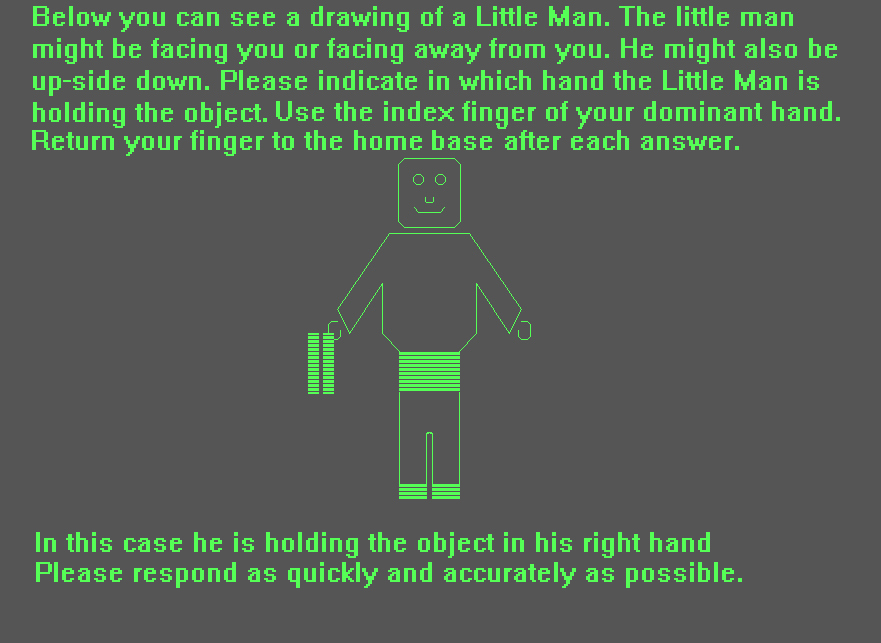
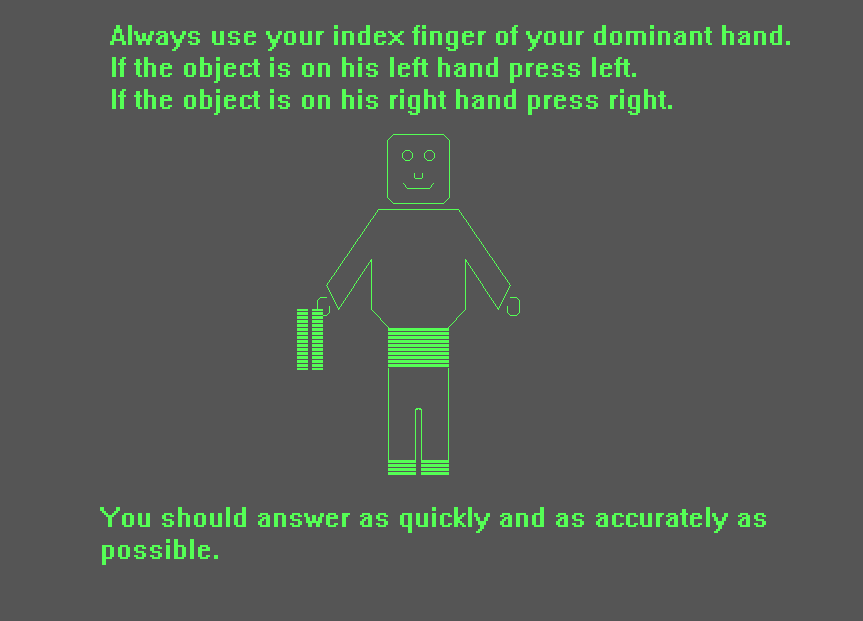
new instructions

diff --git a/task.php b/task.php
@@ -135,7 +135,7 @@ function exportToCsv(filename, rows) {
 		"images/25.png", "images/26.png", "images/27.png", "images/28.png", 
 		"images/29.png", "images/30.png", "images/31.png", "images/32.png", 
 		];
-    jsPsych.preloadImages(stimuli, function(){ startExperiment(); });
+    //jsPsych.preloadImages(stimuli, function(){ startExperiment(); });
     var stimuli_types = ["left","right","left","right","right","left",
     			"right","left","right","right","left","left",
 			"right","left","left","right","right","left",
@@ -484,9 +484,11 @@ function exportToCsv(filename, rows) {
     // Define first instruction block which uses instruction image
     var first_instruction_block = {
 	  type: 'text',
-	  cont_key: 'mouse',
-	  text: '<center><image src="images/instruction_example.png"></center>',
-	  timing_post_trial: 1000,
+          cont_key: 'mouse',
+	  timeline: [{text: '<center><image src="images/instruction_example.png"></center>'},
+		     {text: '<center><image src="images/instruction2.png"></center>'},
+		     {text: '<center><image src="images/instruction3.png"></center>'}],
+	  timing_post_trial: 0,
 	  //adding is_data_element label for welcome and instruction messages
 	  on_finish: function(data){
 	   	 jsPsych.data.addDataToLastTrial({is_data_element: false});

diff --git a/task-keyboard.php b/task-keyboard.php
@@ -475,8 +475,10 @@ function exportToCsv(filename, rows) {
     // Define first instruction block which uses instruction image
     var first_instruction_block = {
 	  type: 'single-stim',
-	  stimulus: 'images/instruction_example.png',
-	  timing_post_trial: 1000,
+	  timeline: [{stimulus: 'images/instruction_example_keyboard.png'},
+		     {stimulus: 'images/instruction2.png'},
+		     {stimulus: 'images/instruction3.png'}],
+	  timing_post_trial: 0,
 	  //adding is_data_element label for welcome and instruction messages
 	  on_finish: function(data){
 	   	 jsPsych.data.addDataToLastTrial({is_data_element: false});
